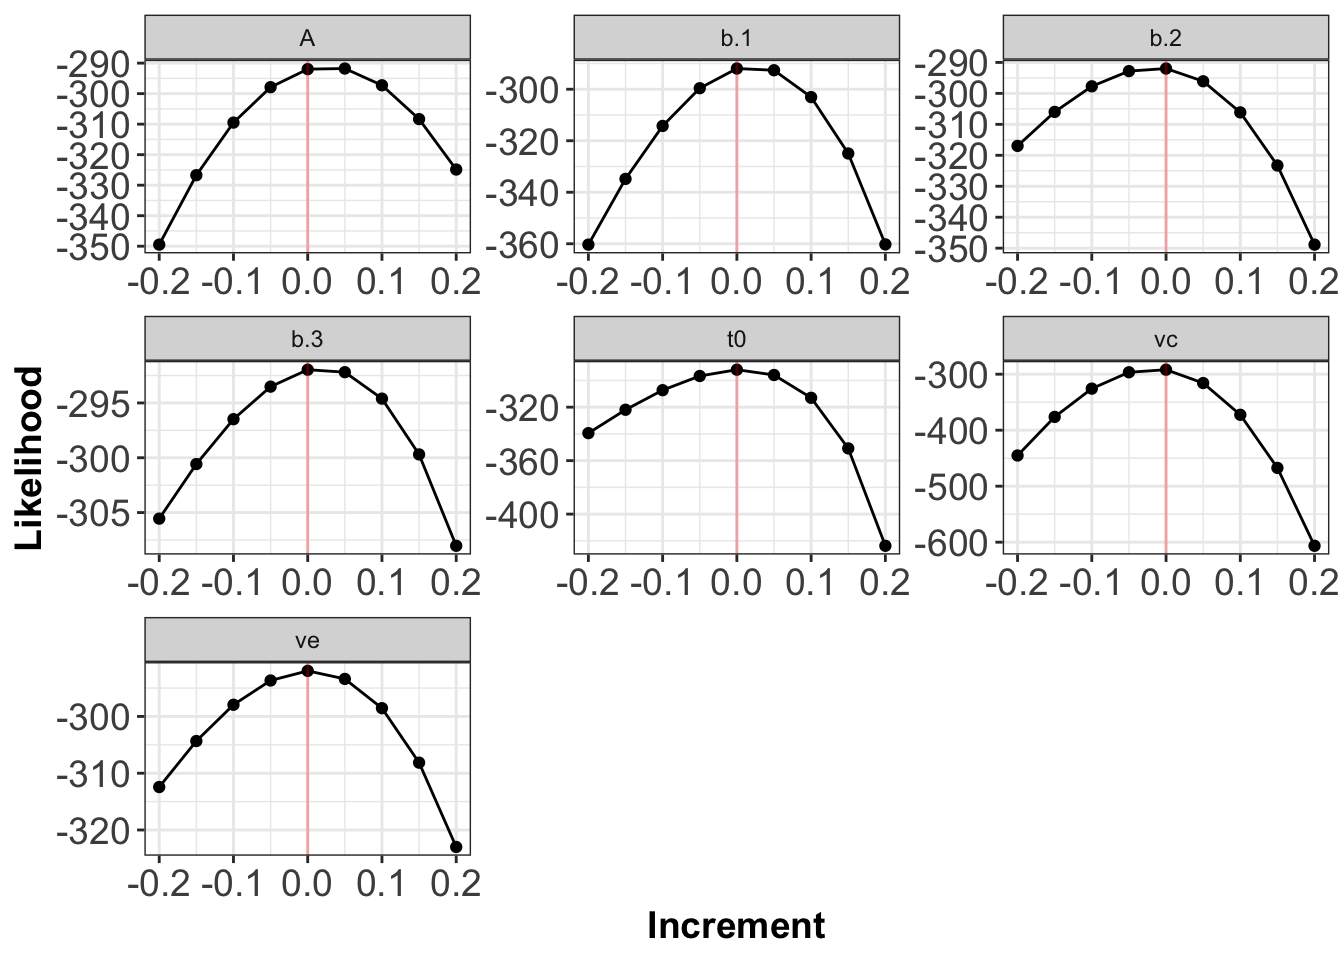
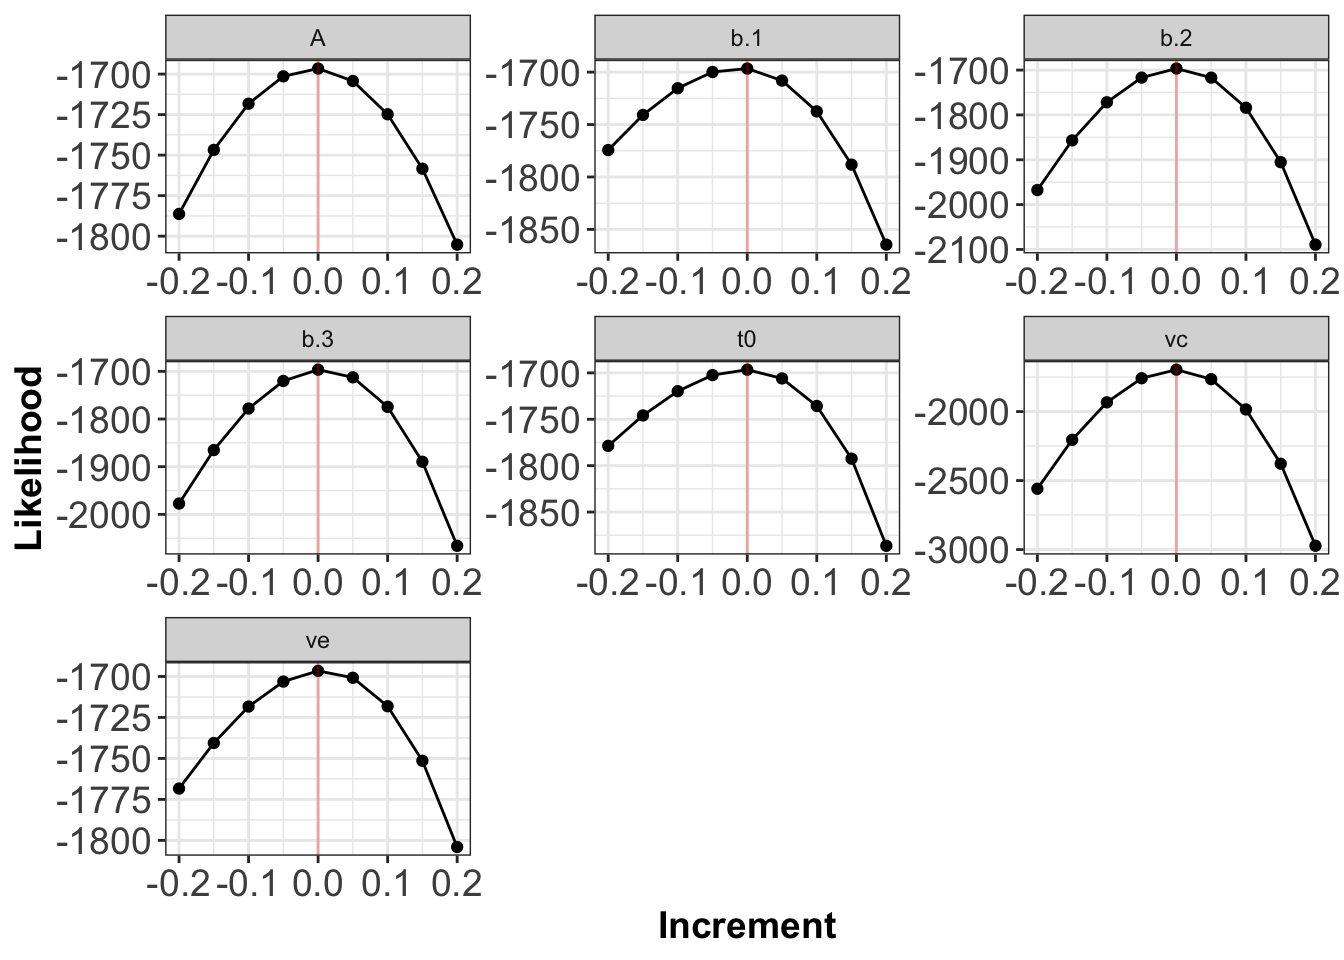
Update profile plot function for log-likelihood trouble shotting Forstmann

Changed region(s): [[0.0312, 0.0, 1.0, 0.9375], [0.4688, 0.9375, 0.625, 1.0]]

diff --git a/docs/forstmannChapter.html b/docs/forstmannChapter.html
@@ -1358,14 +1358,14 @@ sampled1b &lt;-<span class="st"> </span>sampled
 <li>Assign values to parameters of the model - these are known as the generating values. <br><b>Note</b>: ensure these are sensible values - for example in the LBA, we want the drift rate for the mismatch/error accumulator (<code>ve</code>) to be smaller than the match/correct accumulator (<code>vc</code>) and the non-decision time parameter <code>t0</code> should not be too large.</li>
 </ol>
 <div class="sourceCode"><pre class="sourceCode r"><code class="sourceCode r">x &lt;-<span class="st"> </span><span class="kw">log</span>(<span class="kw">c</span>(<span class="dt">A =</span> <span class="dv">2</span>,
-          <span class="dt">b.1 =</span> <span class="dv">2</span>,
-          <span class="dt">b.2 =</span> <span class="dv">1</span>,
-          <span class="dt">b.3 =</span> .<span class="dv">5</span>,
-          <span class="dt">vc =</span> <span class="dv">4</span>,
-          <span class="dt">ve =</span> <span class="dv">2</span>,
-          <span class="dt">t0 =</span> .<span class="dv">18</span>
-                )
-              )</code></pre></div>
+           <span class="dt">b.1 =</span> <span class="dv">1</span>,
+           <span class="dt">b.2 =</span> <span class="dv">3</span>,
+           <span class="dt">b.3 =</span> <span class="dv">3</span>,
+           <span class="dt">vc =</span> <span class="dv">4</span>,
+           <span class="dt">ve =</span> <span class="dv">2</span>,
+           <span class="dt">t0 =</span> .<span class="dv">18</span>
+           )
+         )</code></pre></div>
 <ol start="2" style="list-style-type: decimal">
 <li>Produce profile plots to compare the log-likelihood of the <code>x</code> parameter values against nearby values in the ‘synethetic’ data. You can write your own function for this, or use the function below.</li>
 </ol>
@@ -1384,7 +1384,7 @@ sampled1b &lt;-<span class="st"> </span>sampled
   }
   <span class="co">#Create test data set. We use a tenth of the total data for speed</span>
   test &lt;-<span class="st"> </span>sampler<span class="op">$</span><span class="kw">ll_func</span>(<span class="dt">x =</span> generating_values,
-                  <span class="dt">data =</span> sampler<span class="op">$</span>data[<span class="kw">c</span>(<span class="dv">1</span><span class="op">:</span>(<span class="kw">nrow</span>(sampler<span class="op">$</span>data) <span class="op">/</span><span class="st"> </span><span class="dv">10</span>)),],
+                  <span class="dt">data =</span> sampler<span class="op">$</span>data[<span class="kw">c</span>(<span class="dv">1</span><span class="op">:</span>(<span class="kw">nrow</span>(sampler<span class="op">$</span>data) <span class="op">/</span><span class="st"> </span><span class="dv">3</span>)),],
                   <span class="dt">sample =</span> <span class="ot">TRUE</span>)
   <span class="co"># n_values = number of values to test and plot. </span>
   n_values &lt;-<span class="st"> </span><span class="dv">9</span>
@@ -1441,6 +1441,7 @@ sampled1b &lt;-<span class="st"> </span>sampled
 <p>The red line indicates the true generating parameter value (i.e. the data generating values for the parameters) have the best (highest) likelihoods.</p>
 <p>Note: The plots above do not tell you if your log-likelihood is correct in the sense that you have written a log-likelihood for the model you actually want to test. The plots allow you to determine if your function is functioning as intended.</p>
 <p>Below is output from a function with a potential error. We can see that the red lines indicating the generating parameter values (i.e. the data generating values for the parameters) do not have the best (highest) likelihoods. Plots with flat lines for parameter values would also be indicative of an error somewhere within your log-likelihood code.</p>
+<p><img src="bookdown-demo_files/figure-html/dodgellplots-1.png" width="672" /></p>
 
 </div>
 </div>
